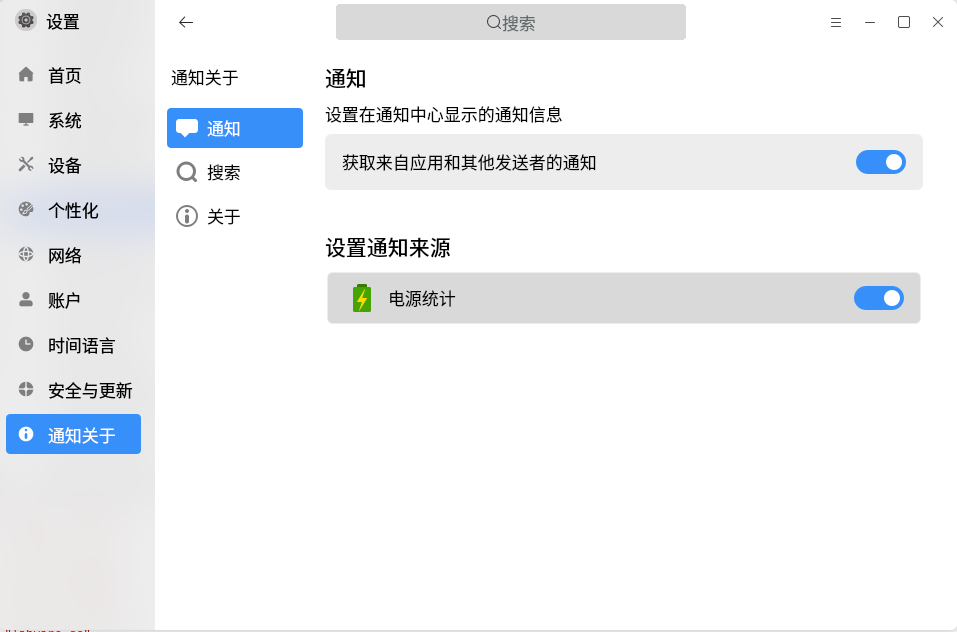
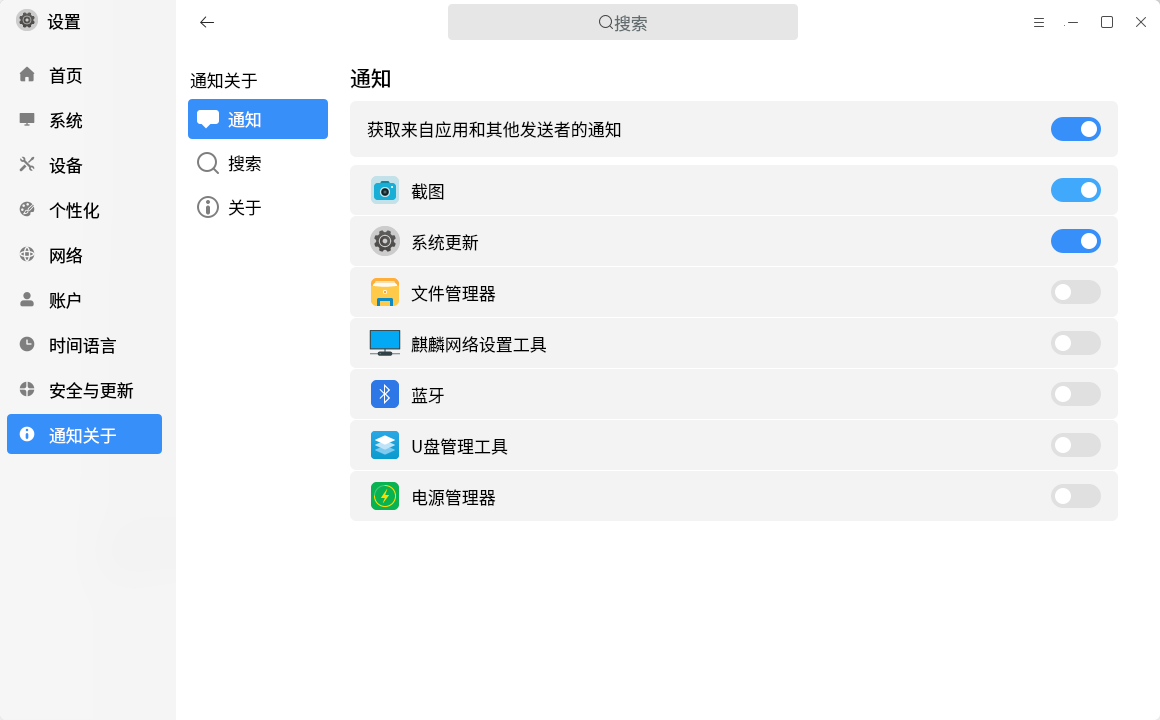
fix(User Manual): User Manual
Description: User Manual

Log: 【控制面板|触摸板】用户手册没有更新 ;  【用户手册】控制面板用户手册中的截图，与实际不一致
Bug: http://172.17.66.192/biz/bug-view-38116.html ; http://172.17.66.192/biz/bug-view-63394.html

diff --git a/data/zh_CN/index.md b/data/zh_CN/index.md
@@ -129,7 +129,7 @@
 ### 触摸板
 触摸板提供了以下功能设置
 
-1）插入鼠标时触摸板开启/关闭
+1）连接鼠标或无线触控板时触摸板开启/关闭
 
 2）打字时触摸板开启/关闭
 
@@ -482,9 +482,9 @@ Tips：系统至少需要存在一个管理员用户。
 
 
 
-## 通知和操作
+## 和操作
 ### 通 知
-如图所示：
+用户可在此对部分应用进行是否接受通知的设置，如图所示：
 
 ![图 63 通知-big](image/notice.png)
 
